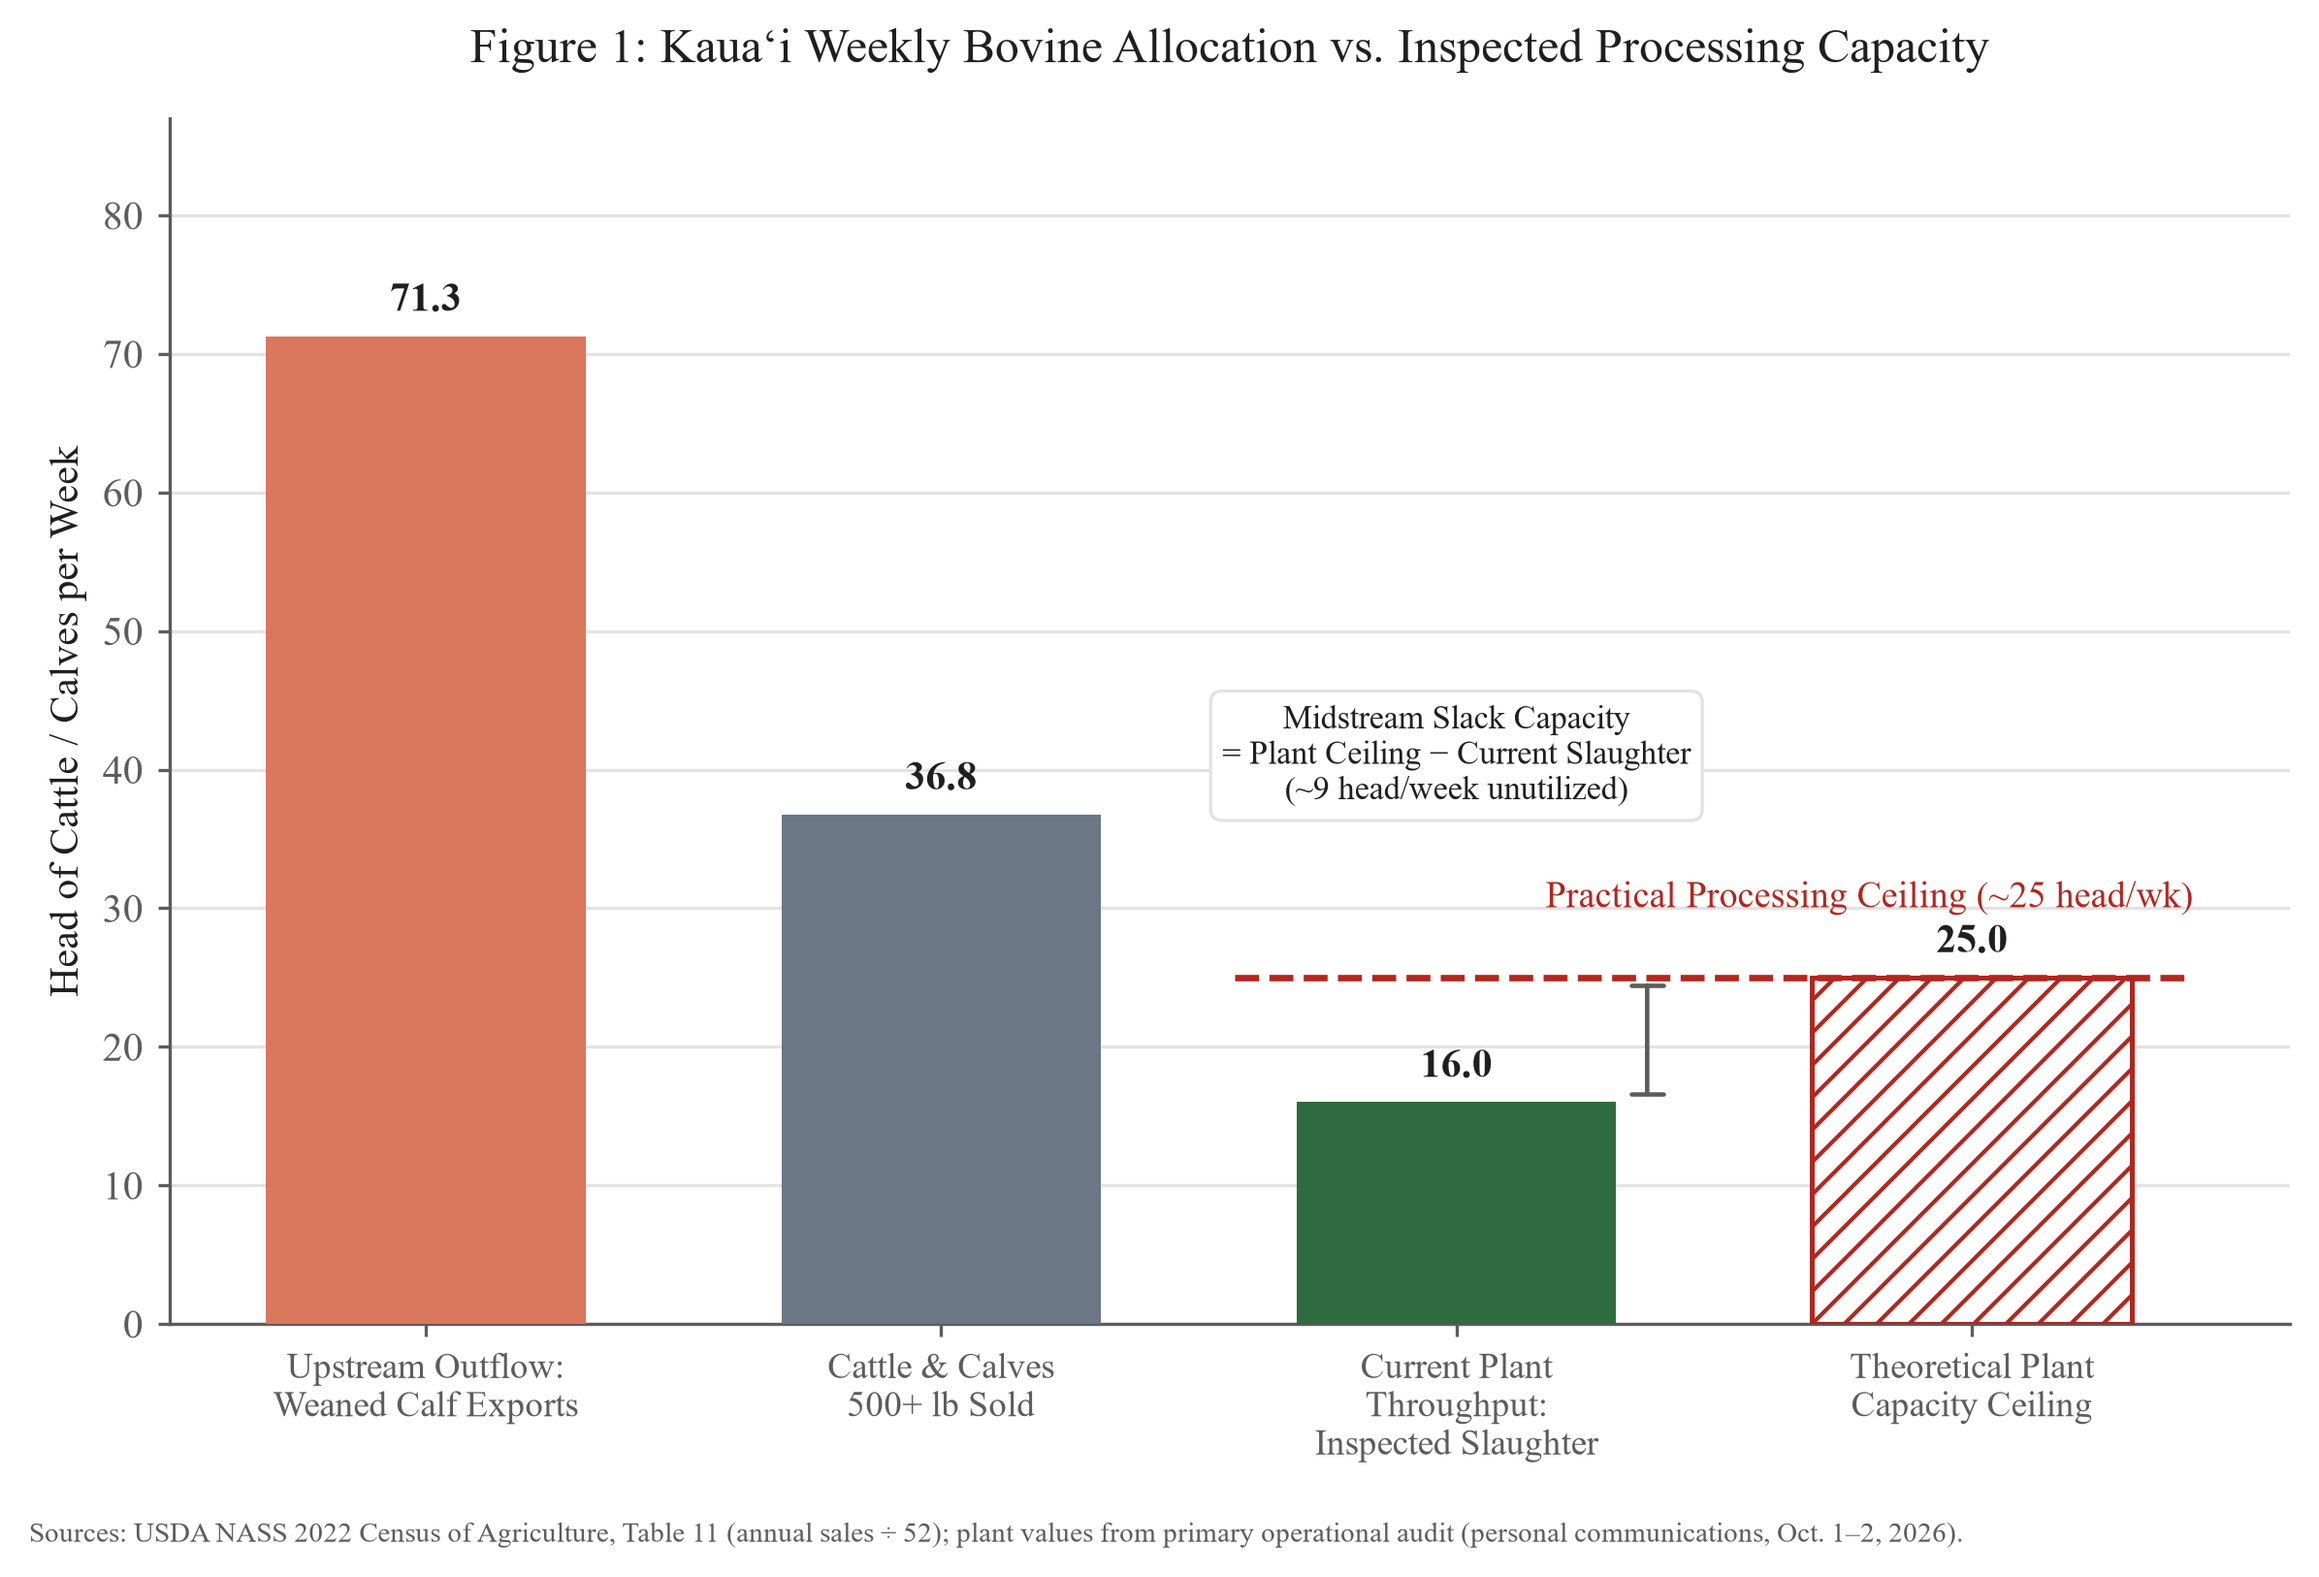
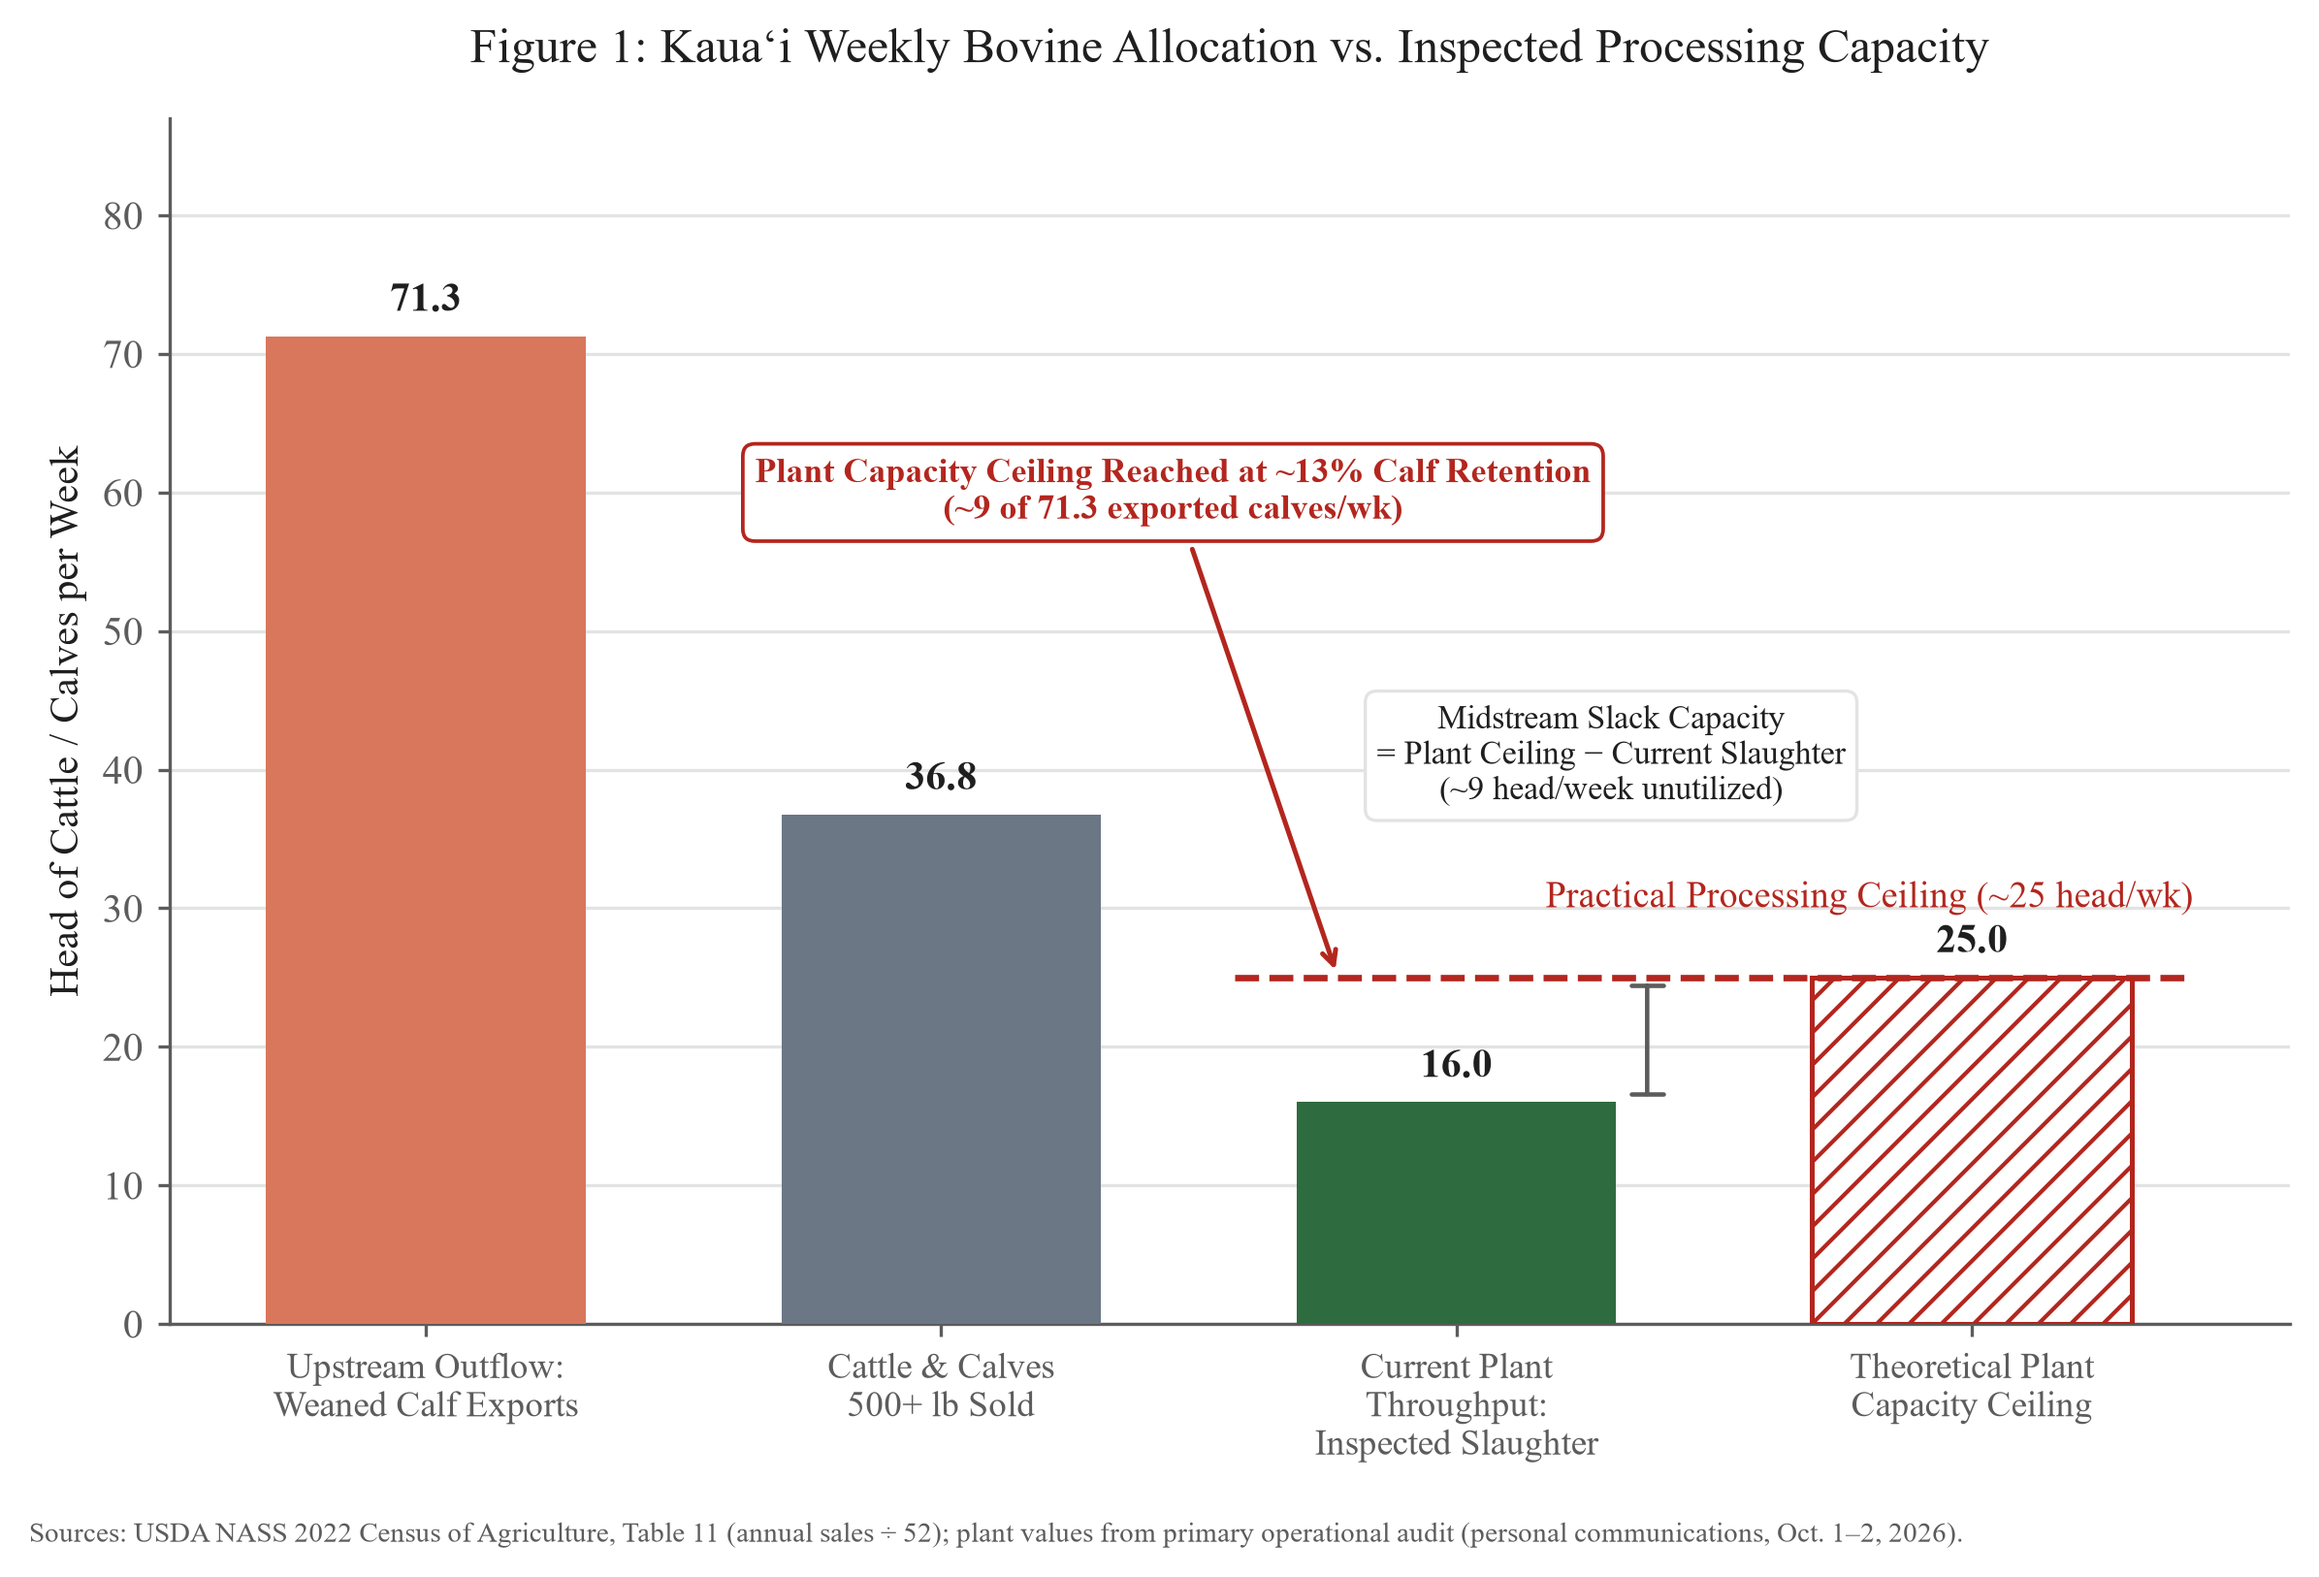
Figure 1: mark plant ceiling reached at ~13% calf retention

Changed region(s): [[0.5261, 0.4305, 0.8047, 0.5228], [0.3095, 0.2768, 0.7118, 0.369], [0.5571, 0.5843, 0.588, 0.615]]

diff --git a/analysis/figures/figure1_bovine_allocation_capacity.py b/analysis/figures/figure1_bovine_allocation_capacity.py
@@ -54,10 +54,20 @@ slack = plant_max_capacity - observed_slaughter
 bx = bars[2].get_x() + bars[2].get_width() + 0.06
 ax.annotate("", xy=(bx, observed_slaughter), xytext=(bx, plant_max_capacity),
             arrowprops=dict(arrowstyle="|-|", color=INK_MUTED, lw=1.1, mutation_scale=4), zorder=5)
-ax.text(bars[2].get_x() + bars[2].get_width() / 2, plant_max_capacity + 16,
+ax.text(bars[2].get_x() + bars[2].get_width() / 2 + 0.3, plant_max_capacity + 16,
         f"Midstream Slack Capacity\n= Plant Ceiling − Current Slaughter\n(~{slack:.0f} head/week unutilized)",
         ha="center", va="center", fontsize=8.2, color=INK,
         bbox=dict(boxstyle="round,pad=0.35", fc="white", ec=GRID, lw=0.8), zorder=6)
+
+# Retention threshold: share of exported calves that fills the remaining slack
+retention_pct = slack / calf_exports * 100
+ax.annotate(f"Plant Capacity Ceiling Reached at ~{retention_pct:.0f}% Calf Retention\n"
+            f"(~{slack:.0f} of {calf_exports:.1f} exported calves/wk)",
+            xy=(bars[2].get_x() + 0.08, plant_max_capacity), xytext=(1.45, 60),
+            ha="center", va="center", fontsize=8.6, color=CEILING, fontweight="bold",
+            arrowprops=dict(arrowstyle="->", color=CEILING, lw=1.2,
+                            connectionstyle="arc3,rad=0"),
+            bbox=dict(boxstyle="round,pad=0.35", fc="white", ec=CEILING, lw=0.9), zorder=7)
 
 ax.set_title("Figure 1: Kauaʻi Weekly Bovine Allocation vs. Inspected Processing Capacity",
              fontsize=12, color=INK, pad=14)
